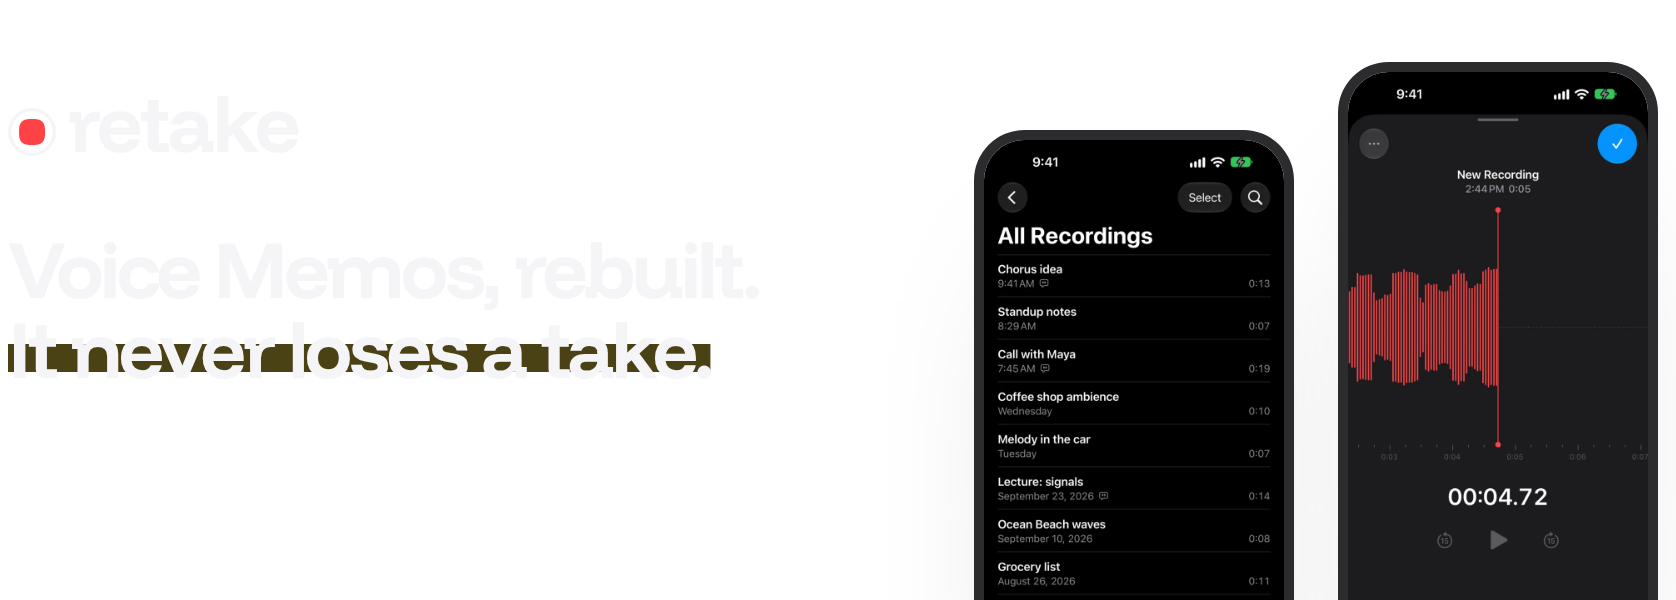
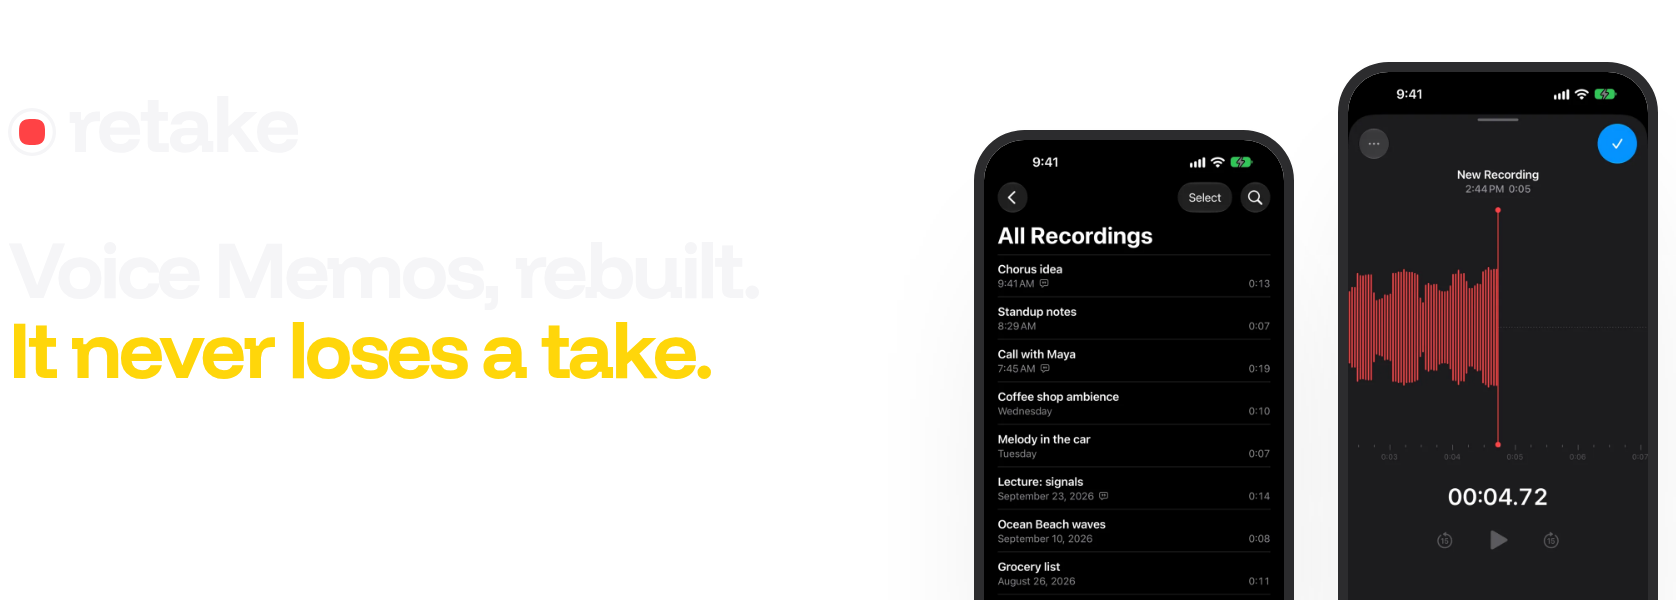
Site: reviewer fixes, devices to scale, yellow ink in dark, chart labels on phones

Changed region(s): [[0.0, 0.54, 0.4344, 0.63]]

diff --git a/site/index.html b/site/index.html
@@ -82,8 +82,8 @@
       <div class="lane" data-lane="apple">
         <span class="lane-name">Voice Memos</span>
         <div class="track">
-          <span class="block wait" style="--from:0;--to:330">saving, nothing moves · ~330 ms</span>
-          <span class="block collapse" style="--from:330;--to:545">collapse · ~215 ms</span>
+          <span class="block wait" style="--from:0;--to:330"><span class="long">saving, nothing moves ·&nbsp;</span>~330 ms</span>
+          <span class="block collapse" style="--from:330;--to:545"><span class="long">collapse ·&nbsp;</span>~215 ms</span>
           <span class="row-in" style="--at:545">New Recording</span>
         </div>
       </div>
@@ -145,7 +145,7 @@
   </div>
   <div class="ledger">
     <canvas aria-label="300 bars, one per take the test records. Each bar's height is that take's length, 50 to 130 milliseconds."></canvas>
-    <div class="ledger-read" aria-live="polite"><span class="title">New Recording</span><span class="len">50 ms</span></div>
+    <div class="ledger-read" aria-live="polite"><span class="title">New Recording</span><span class="len">70 ms long</span></div>
     <div class="ledger-ends" aria-hidden="true"><span>New Recording</span><span>New Recording 300</span></div>
   </div>
 </section>
@@ -211,19 +211,19 @@
     <p>The iPad gets the split view. The Duo gets both screens, closed and open.</p>
   </div>
   <div class="device-row">
-    <figure class="tablet duo-open">
-      <picture>
-        <source srcset="/media/iphone-duo-2-open-list-dark.webp" media="(prefers-color-scheme: dark)">
-        <img src="/media/iphone-duo-2-open-list-light.webp" alt="retake on iPhone Duo, open: the list beside the player" width="1600" height="1126" loading="lazy">
-      </picture>
-      <figcaption>iPhone Duo, open</figcaption>
-    </figure>
     <figure class="tablet ipad">
       <picture>
         <source srcset="/media/ipad-pro-13-list-dark.webp" media="(prefers-color-scheme: dark)">
         <img src="/media/ipad-pro-13-list-light.webp" alt="retake on iPad Pro 13-inch in split view" width="1200" height="1600" loading="lazy">
       </picture>
       <figcaption>iPad Pro 13″</figcaption>
+    </figure>
+    <figure class="tablet duo-open">
+      <picture>
+        <source srcset="/media/iphone-duo-2-open-list-dark.webp" media="(prefers-color-scheme: dark)">
+        <img src="/media/iphone-duo-2-open-list-light.webp" alt="retake on iPhone Duo, open: the list beside the player" width="1600" height="1126" loading="lazy">
+      </picture>
+      <figcaption>iPhone Duo, open</figcaption>
     </figure>
     <figure class="phone duo-cover">
       <img src="/media/iphone-duo-1-list-light.webp" alt="retake on the iPhone Duo cover screen" width="640" height="931" loading="lazy">
@@ -268,7 +268,7 @@ open Retake.xcodeproj</code></pre>
 <footer class="foot">
   <ol class="notes">
     <li id="n1">Voice Memos timing from iOS 26's screen recording, frame-counted at 60 fps. iOS 27's footage shows the same collapse after Done.</li>
-    <li id="n2">Within 30 ms, after compression to AAC.</li>
+    <li id="n2">Each file's length is within 30 ms of what was recorded, checked after compression to AAC.</li>
     <li id="n3">Card rise in iOS 27: ~280 ms from touch to settle, measured from 60 fps footage.</li>
   </ol>
   <p class="legal"><span>retake · MIT · by <a href="https://x.com/AVGVSTVS96">bassim</a></span> <span>Not affiliated with Apple. Voice Memos is a trademark of Apple Inc.</span></p>

diff --git a/site/style.css b/site/style.css
@@ -35,6 +35,7 @@
   --trim: light-dark(#F5E8B5, #4A4115);
   --bezel: light-dark(#1D1D1F, #2C2C2E);
   --wait: light-dark(rgb(17 17 19 / 0.07), rgb(245 245 247 / 0.09));
+  --bar: light-dark(#E5E5EA, #3A3A3C);
 
   --display: "Funnel Display", ui-sans-serif, system-ui, sans-serif;
   --text: "Funnel Sans", ui-sans-serif, system-ui, sans-serif;
@@ -58,7 +59,7 @@ body {
   font-feature-settings: "tnum" 0;
 }
 
-::selection { background: var(--trim); color: var(--ink); }
+::selection { background: light-dark(var(--trim), #48484A); color: var(--ink); }
 
 a { color: var(--link); text-decoration: none; transition: color 0.16s var(--ease); }
 a:hover { text-decoration: underline; text-underline-offset: 3px; }
@@ -148,7 +149,7 @@ main > section + section { margin-top: var(--section); }
 .hero-phone { grid-area: phone; container-type: inline-size; }
 
 h1 {
-  font-size: clamp(40px, 9.6cqi, 92px);
+  font-size: clamp(30px, 9.6cqi, 92px);
   line-height: 1.02;
   font-weight: 700;
   letter-spacing: -0.045em;
@@ -159,7 +160,13 @@ h1 {
   text-decoration-thickness: 0.34em;
   text-underline-offset: -0.42em;
   text-decoration-skip-ink: none;
+  white-space: nowrap;
 }
+@media (prefers-color-scheme: dark) {
+  .trim { text-decoration: none; color: var(--yellow); }
+}
+html.dark .trim { text-decoration: none; color: var(--yellow); }
+html.light .trim { text-decoration-line: underline; color: inherit; }
 
 .lede {
   margin: 28px 0 0;
@@ -354,7 +361,7 @@ h1 {
   background: repeating-linear-gradient(-45deg, var(--wait) 0 6px, transparent 6px 12px);
   box-shadow: inset 0 0 0 1px var(--hair);
 }
-.block.collapse { background: var(--sunk); color: var(--ink); }
+.block.collapse { background: var(--bar); color: var(--ink); }
 .block.collapse.ours { background: var(--red); color: #111113; font-weight: 600; }
 
 .row-in {
@@ -407,6 +414,8 @@ h1 {
   background: var(--red);
 }
 .sweep::before { top: -4px; }
+.sweep { transition: opacity 0.3s var(--ease); }
+.lanes.done .sweep { opacity: 0; }
 .sweep::after { bottom: -4px; }
 
 /* disk */
@@ -484,7 +493,7 @@ h1 {
 
 .device-row {
   display: grid;
-  grid-template-columns: 1.9fr 1fr 0.62fr;
+  grid-template-columns: 7.8fr 6.2fr 3fr;
   gap: clamp(20px, 3vw, 40px);
   align-items: end;
   margin-top: 64px;
@@ -608,8 +617,6 @@ h1 {
   .lane + .lane { margin-top: 6px; }
   .sweep { left: calc(100% * var(--t, 0) / 600); top: 14px; }
   .block { font-size: 12px; padding: 0 8px; }
-  .block.wait { font-size: 0; }
-  .block.collapse:not(.ours) { font-size: 0; }
   .row-in { font-size: 12px; padding: 7px 8px; }
   .timing-label { font-size: 13px; }
   .disk { grid-template-columns: 1fr; }
@@ -617,10 +624,11 @@ h1 {
   .states { margin-top: 32px; }
   .ledger canvas { height: 300px; }
   .pair { gap: 20px; margin-top: 48px; }
-  .device-row { grid-template-columns: 1fr 1fr; }
-  .duo-open { grid-column: 1 / -1; }
+  .device-row { grid-template-columns: 7.8fr 6.2fr 3fr; gap: 14px; }
+  .tablet figcaption, .phone figcaption { font-size: 12px; }
   .scope, .build { grid-template-columns: minmax(0, 1fr); }
   .block .long { display: none; }
+  .ms-ruler span:nth-child(even) { visibility: hidden; }
   .strip-takes .take .word { display: none; }
   .strip-takes .take small { margin-left: 0; }
   .head p, .disk-copy > p, .scope p { font-size: 17px; }

diff --git a/brand/assets/x-3-devices.html b/brand/assets/x-3-devices.html
@@ -4,7 +4,7 @@ body { --w: 1600px; --h: 900px; }
 .card { padding: 72px; }
 .lockup { height: 30px; }
 h1 { margin-top: 40px; }
-.row { position: absolute; left: 72px; right: 72px; bottom: -40px; display: grid; grid-template-columns: 1.9fr 1fr 0.62fr; gap: 48px; align-items: end; }
+.row { position: absolute; left: 72px; right: 72px; top: 250px; display: grid; grid-template-columns: 7.8fr 6.2fr 3fr; gap: 40px; align-items: start; }
 .tablet img, .duo-cover img { width: 100%; }
 .row .phone { position: static; }
 </style>
@@ -12,8 +12,8 @@ h1 { margin-top: 40px; }
 <img class="lockup" src="../logo/lockup.svg" alt="">
 <h1>iPhone, iPad and iPhone Duo.</h1>
 <div class="row">
-  <figure class="tablet duo-open"><img src="../../site/public/media/iphone-duo-2-open-list-light.webp" alt=""></figure>
   <figure class="tablet ipad"><img src="../../site/public/media/ipad-pro-13-list-light.webp" alt=""></figure>
+  <figure class="tablet duo-open"><img src="../../site/public/media/iphone-duo-2-open-list-light.webp" alt=""></figure>
   <figure class="phone duo-cover"><img src="../../site/public/media/iphone-duo-1-list-light.webp" alt=""></figure>
 </div>
 </div>

diff --git a/site/main.js b/site/main.js
@@ -127,6 +127,7 @@ function stopTiming() {
 
   const show = (t) => {
     lanes.style.setProperty("--t", t)
+    lanes.classList.toggle("done", t >= end)
     for (const b of blocks) b.el.style.setProperty("--shown", `${Math.max(0, Math.min(1, (t - b.from) / (b.to - b.from))) * 100}%`)
     for (const r of rows) r.el.style.setProperty("--row", t >= r.at ? 1 : 0)
   }
@@ -195,7 +196,7 @@ function ledger() {
   const read = (i) => {
     const t = takes[i]
     readout.querySelector(".title").textContent = t.title
-    readout.querySelector(".len").textContent = `${t.ms} ms${t.paused ? ", paused and resumed once" : ""}`
+    readout.querySelector(".len").textContent = `${t.ms} ms long${t.paused ? ", paused and resumed once" : ""}`
   }
   read(count - 1)
 
